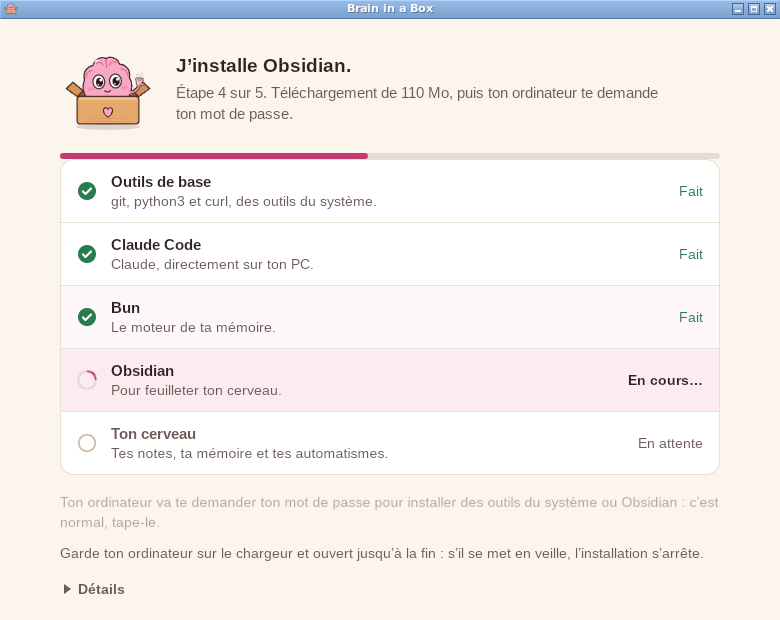
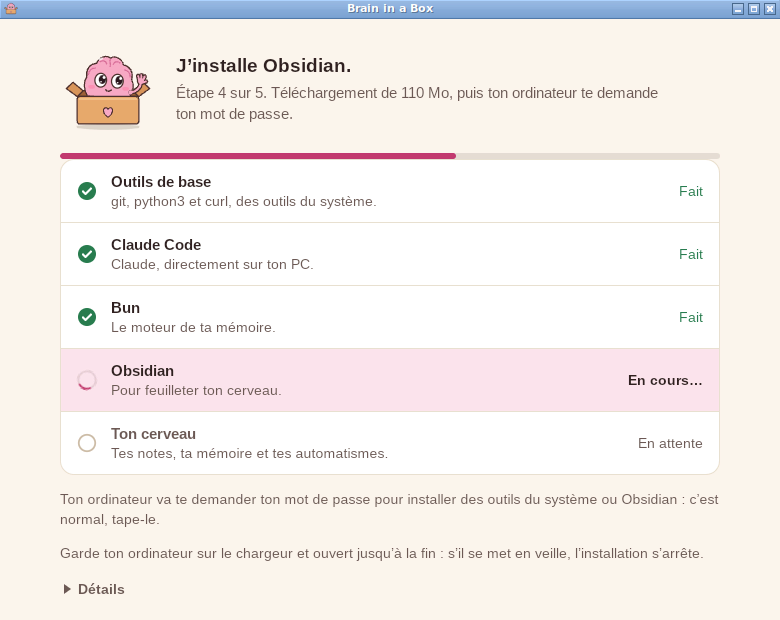
The site's texts say what its images show: the folded diagnosis' legend introduced, the login's three instructions, Voyage out of the walkthrough (after the end), the Linux capture without its fade-in

diff --git a/site/index.html b/site/index.html
@@ -494,6 +494,7 @@
           <h3>«&nbsp;J’ai fait le tour.&nbsp;»</h3>
           <p>En quelques secondes, Bibo vérifie ton système, la place libre, internet et ce qui est déjà installé.</p>
           <p><strong>Mon conseil</strong>&nbsp;: d’après ce qui est déjà sur ton ordinateur (Claude Code, les apps ChatGPT ou Claude, Hermes…), Bibo te dit en une phrase avec quelle IA ton cerveau travaillera et ce qu’il te faut, sans ouvrir tes fichiers de connexion. S’il voit Hermes, il ne l’installe pas et n’y touche pas.</p>
+          <p>«&nbsp;Voir le détail&nbsp;» montre chaque vérification&nbsp;:</p>
           <ul class="legend">
             <li><svg class="ic ic-ok" viewBox="0 0 20 20" aria-hidden="true" focusable="false"><circle class="ic-bg" cx="10" cy="10" r="9"/><path class="ic-fg" d="M6 10.4l2.7 2.6L14 7.6"/></svg>Coche verte&nbsp;: c’est bon.</li>
             <li><svg class="ic ic-missing" viewBox="0 0 20 20" aria-hidden="true" focusable="false"><circle class="ic-ring" cx="10" cy="10" r="8.2"/><path class="ic-line" d="M10 5.8v7M6.9 10.2L10 13.2l3.1-3"/></svg>Flèche dans un cercle pointillé&nbsp;: Bibo va l’installer.</li>
@@ -508,20 +509,9 @@
       </li>
       <li>
         <div class="j-text">
-          <p class="j-num">Écran 3 · optionnel</p>
-          <h3>«&nbsp;Une option avant de commencer&nbsp;»</h3>
-          <p>Ton cerveau retrouve tes notes par mots-clés. Avec une clé Voyage AI, il les retrouve aussi par le sens. Pas de clé&nbsp;? Clique sur <strong>Passer (recherche par mots-clés)</strong>&nbsp;: tu pourras l’ajouter plus tard.</p>
-          <p><a href="#voyage">Comment avoir une clé, et ce que ça coûte</a></p>
-        </div>
-        <figure class="shot">
-          <a class="zoom" href="img/bibo-3-voyage.webp"><img src="img/bibo-3-voyage.webp" width="780" height="674" loading="lazy" decoding="async" alt="L'écran Voyage : trois étapes pour créer une clé, un champ « Ta clé Voyage » avec le bouton Vérifier, et en bas Passer (recherche par mots-clés) ou Continuer avec cette clé."></a>
-        </figure>
-      </li>
-      <li>
-        <div class="j-text">
-          <p class="j-num">Écran 4</p>
+          <p class="j-num">Écran 3</p>
           <h3>«&nbsp;Connecte ton compte Claude maintenant&nbsp;»</h3>
-          <p>Dès que Claude Code est installé, Bibo te propose de connecter ton compte, si ce n’est pas déjà fait. Clique sur le bouton&nbsp;: une fenêtre Terminal s’ouvre (PowerShell sur Windows), ton navigateur te demande de te connecter à Claude, puis tu reviens. Bibo continue tout seul.</p>
+          <p>Dès que Claude Code est installé, Bibo te propose de connecter ton compte, si ce n’est pas déjà fait. Clique sur le bouton&nbsp;: ton navigateur s’ouvre sur claude.ai. Connecte-toi avec le compte de ton abonnement, puis clique sur «&nbsp;Autoriser&nbsp;» (Authorize). Une fenêtre de commandes s’ouvre aussi&nbsp;: laisse-la ouverte, tu n’as rien à y taper. Reviens dans Bibo&nbsp;: il continue tout seul.</p>
           <p>Connecté, Claude pourra aider Bibo si une étape coince. Tu peux aussi choisir <strong>Plus tard</strong>.</p>
         </div>
         <figure class="shot">
@@ -530,7 +520,7 @@
       </li>
       <li>
         <div class="j-text">
-          <p class="j-num">Écran 5</p>
+          <p class="j-num">Écran 4</p>
           <h3>L’installation, étape par étape</h3>
           <p>Bibo installe seulement ce qui manque, une étape après l’autre, avec une barre de progression. «&nbsp;Détails&nbsp;» montre le journal, si tu es curieux. Ce que tu pourrais avoir à faire&nbsp;:</p>
           <ul class="plain">
@@ -558,16 +548,16 @@
           <figcaption><strong>Windows</strong> · 2 étapes&nbsp;: Claude Code, puis Ton cerveau, qui amène Python, Git, Bun et Obsidian.</figcaption>
         </figure>
         <figure class="shot">
-          <a class="zoom" href="img/bibo-linux.webp"><img src="img/bibo-linux.webp" width="780" height="620" loading="lazy" decoding="async" alt="Sur Linux, cinq étapes : Outils de base, Claude Code et Bun sont faits, Obsidian est en cours ; Bibo prévient que l’ordinateur va demander le mot de passe."></a>
+          <a class="zoom" href="img/bibo-linux.webp"><img src="img/bibo-linux.webp" width="780" height="620" loading="lazy" decoding="async" alt="Sur Linux, cinq étapes : Outils de base, Claude Code et Bun sont faits, Obsidian est en cours ; Bibo prévient que l’ordinateur va demander le mot de passe, et qu’il faut le garder branché et ouvert."></a>
           <figcaption><strong>Linux</strong> · Outils de base (s’il en manque), Claude Code, Bun, Obsidian, Ton cerveau.</figcaption>
         </figure>
       </div>
     </div>
 
-    <ol class="journey" start="6">
+    <ol class="journey" start="5">
       <li>
         <div class="j-text">
-          <p class="j-num">Écran 6 · si besoin</p>
+          <p class="j-num">Écran 5 · si besoin</p>
           <h3>«&nbsp;Dernière étape&nbsp;: ton compte Claude&nbsp;»</h3>
           <p>Si ton compte n’est pas encore connecté, Bibo te le redemande à la fin. Même chose&nbsp;: une fenêtre s’ouvre, tu te connectes dans ton navigateur, et Bibo voit tout seul quand c’est bon.</p>
         </div>
@@ -577,10 +567,10 @@
       </li>
       <li>
         <div class="j-text">
-          <p class="j-num">Écran 7</p>
+          <p class="j-num">Écran 6</p>
           <h3>«&nbsp;Ton second cerveau est prêt&nbsp;!&nbsp;»</h3>
           <p>Bibo te propose la suite&nbsp;: te guider pas à pas dans un logiciel, te présenter à Claude (15&nbsp;min), ouvrir tes notes, ou importer ce que ChatGPT ou Claude savent de toi. Sans clé Voyage, tu peux aussi activer ici la recherche par le sens.</p>
-          <p><a href="#guide">Le guide</a> · <a href="#apres">Et après&nbsp;?</a></p>
+          <p><a href="#guide">Le guide</a> · <a href="#voyage">La recherche par le sens</a> · <a href="#apres">Et après&nbsp;?</a></p>
         </div>
         <figure class="shot">
           <a class="zoom" href="img/bibo-8-pret.webp"><img src="img/bibo-8-pret.webp" width="780" height="650" loading="lazy" decoding="async" alt="L’écran final, Claude connecté : Bibo content dit « Ton second cerveau est prêt ! », les liens Importer ma mémoire, Voir mes notes et Recherche par le sens, et deux boutons : Présente-toi à Claude (15 min) et, en rose, Guide-moi dans un logiciel."></a>
@@ -588,7 +578,7 @@
       </li>
       <li>
         <div class="j-text">
-          <p class="j-num">Écran 8 · si tu veux</p>
+          <p class="j-num">Écran 7 · si tu veux</p>
           <h3>«&nbsp;D’où vient ta mémoire&nbsp;?&nbsp;»</h3>
           <p>Avec «&nbsp;Importer ma mémoire&nbsp;», à la fin ou quand tu rouvres l’app&nbsp;: ton fichier d’export, ou un copier-coller de deux minutes. Bibo te dit ce qu’il a lu et ce qui partirait, avant d’envoyer quoi que ce soit.</p>
           <p><a href="#memoire">Les deux façons, pas à pas</a></p>
